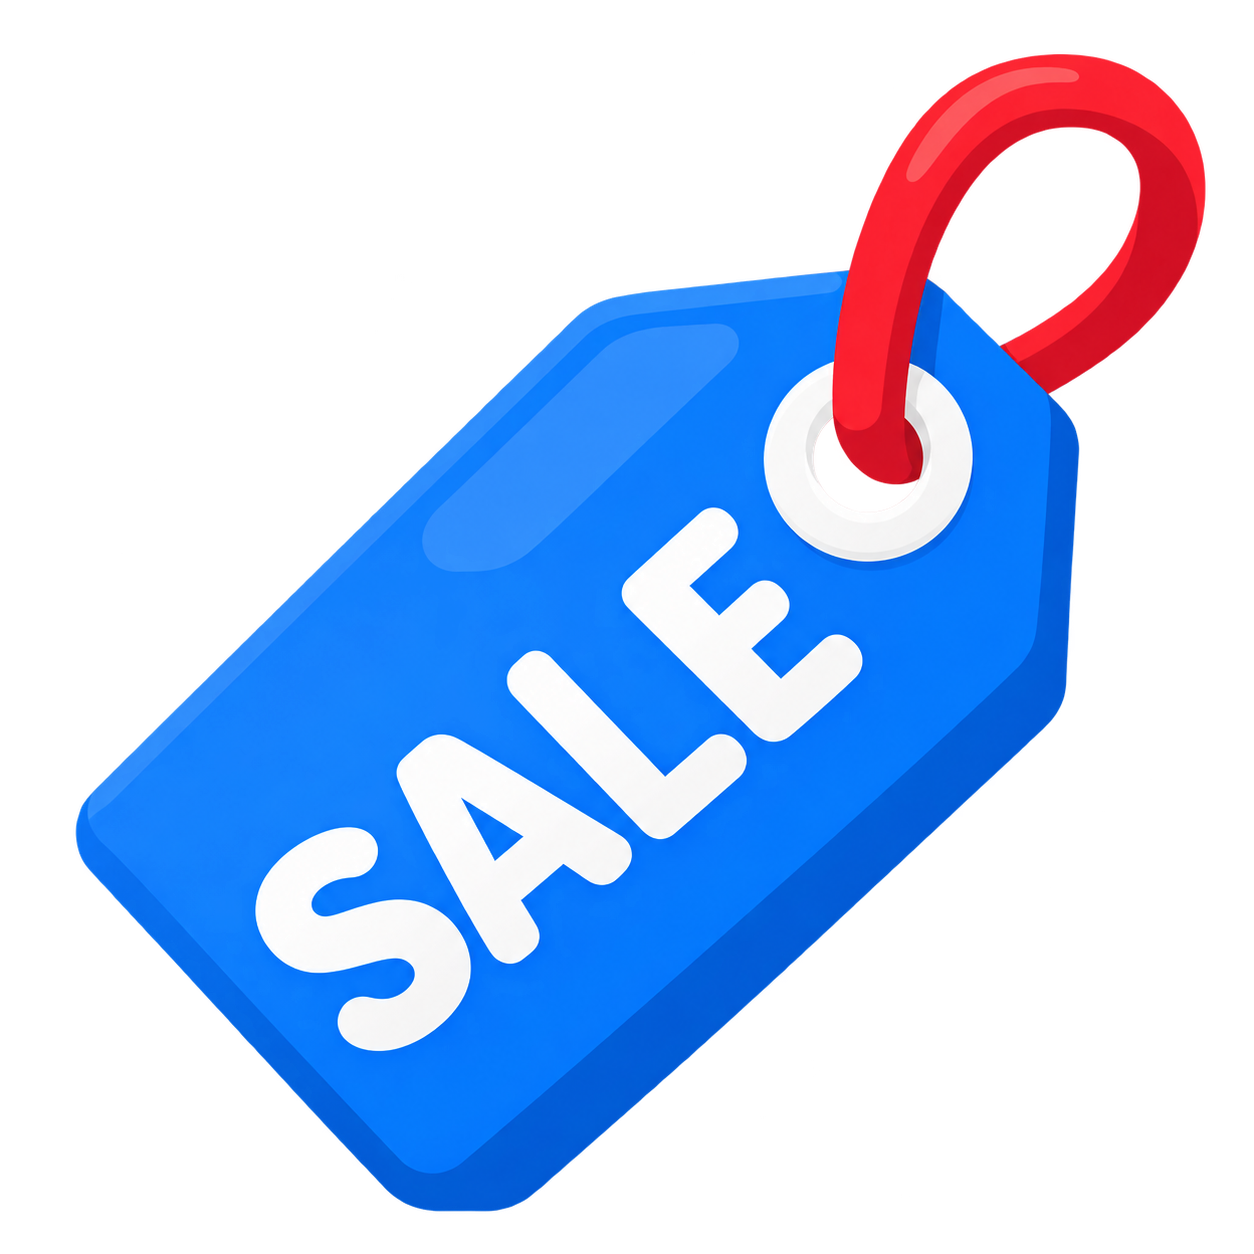
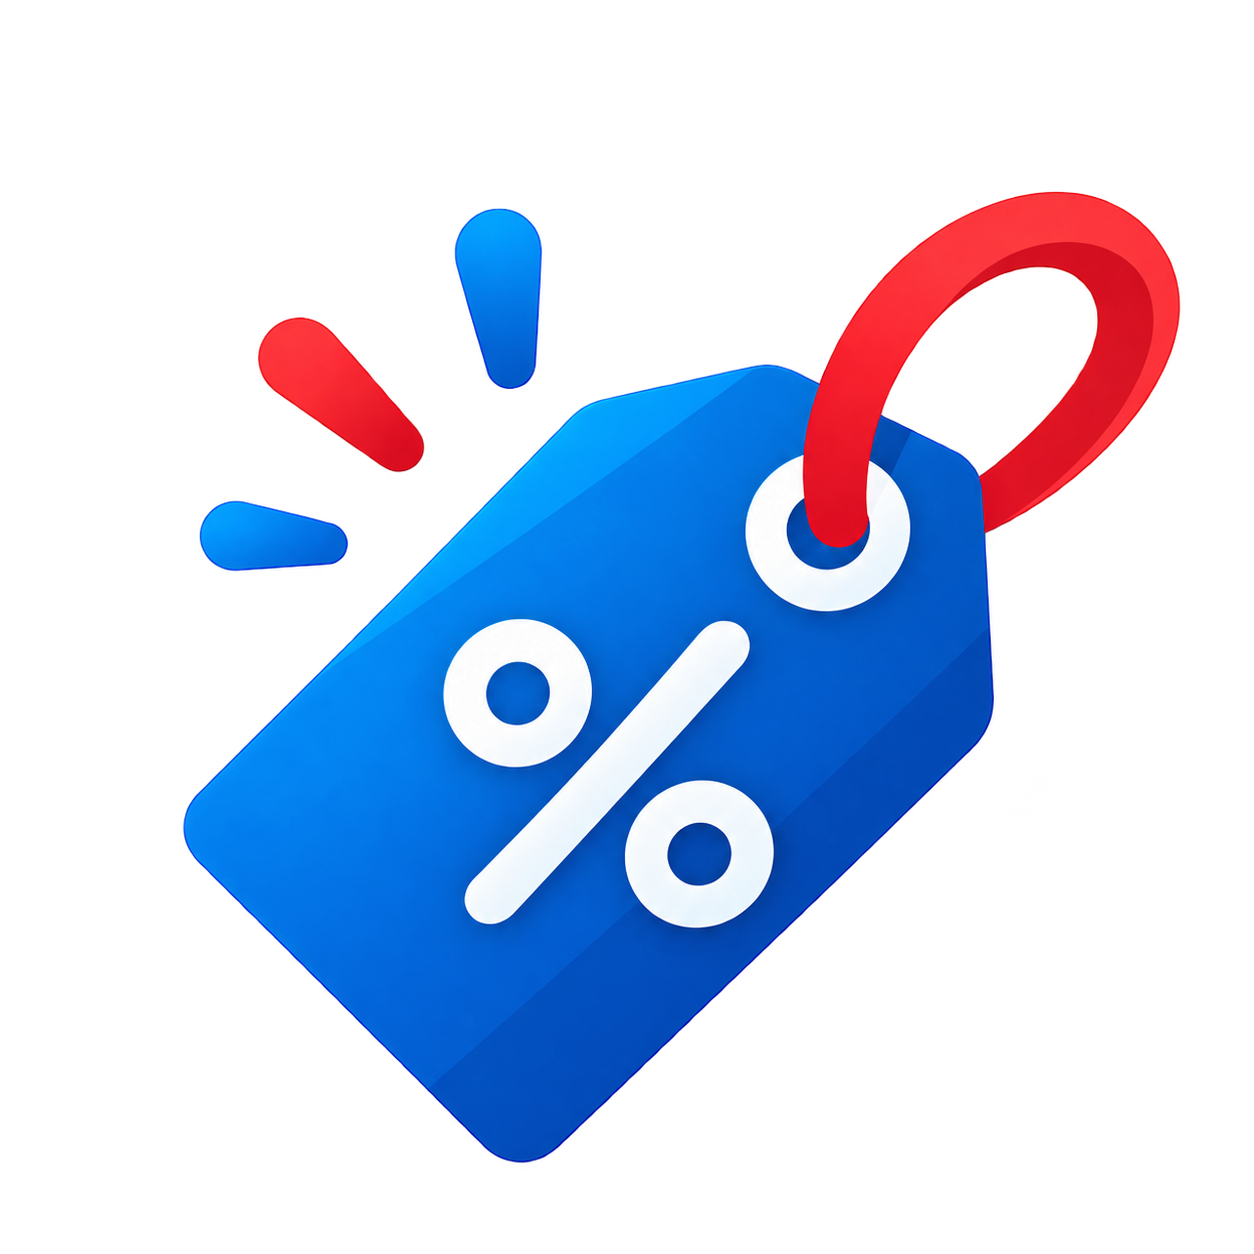
feat: implement dynamic home hero themes and enhance storefront layout

diff --git a/App.tsx b/App.tsx
@@ -138,6 +138,58 @@ const homeMenus = [
   { label: 'Industry', hero: require('./assets/figma/category-industry.png') },
 ] as const;
 
+type HomeHeroTheme = {
+  colors: readonly [string, string, string, string, string];
+  locations: readonly [number, number, number, number, number];
+};
+
+const HOME_HERO_THEMES: Record<string, HomeHeroTheme> = {
+  Audio: { colors: ['#071D3D', '#0C3159', '#1E5A86', '#72A8C8', '#DCEAF3'], locations: [0, 0.24, 0.49, 0.75, 1] },
+  Capture: { colors: ['#301712', '#592A20', '#8C503A', '#C58A68', '#F0D9C8'], locations: [0, 0.24, 0.49, 0.75, 1] },
+  Computers: { colors: ['#11182B', '#1E2F52', '#345A82', '#7796B2', '#D9E5EE'], locations: [0, 0.24, 0.49, 0.75, 1] },
+  'Smart Tech': { colors: ['#151537', '#27235D', '#435A91', '#7E9FC1', '#DCE8F1'], locations: [0, 0.24, 0.49, 0.75, 1] },
+  Home: { colors: ['#183227', '#2D5143', '#5D806D', '#9DB8A4', '#E3ECE4'], locations: [0, 0.24, 0.49, 0.75, 1] },
+  Lifestyle: { colors: ['#32172F', '#5A2D59', '#875B82', '#B793AF', '#EADDE8'], locations: [0, 0.24, 0.49, 0.75, 1] },
+  Industry: { colors: ['#282016', '#51412B', '#7A6746', '#AD9871', '#E8E0D0'], locations: [0, 0.24, 0.49, 0.75, 1] },
+};
+
+function getHomeHeroTheme(category: string): HomeHeroTheme {
+  if (HOME_HERO_THEMES[category]) return HOME_HERO_THEMES[category]!;
+  const normalized = category.toLowerCase();
+  if (normalized.includes('camera') || normalized.includes('capture')) return HOME_HERO_THEMES.Capture!;
+  if (normalized.includes('computer')) return HOME_HERO_THEMES.Computers!;
+  if (normalized.includes('smart') || normalized.includes('watch')) return HOME_HERO_THEMES['Smart Tech']!;
+  if (normalized.includes('home')) return HOME_HERO_THEMES.Home!;
+  if (normalized.includes('life')) return HOME_HERO_THEMES.Lifestyle!;
+  if (normalized.includes('industr')) return HOME_HERO_THEMES.Industry!;
+  return HOME_HERO_THEMES.Audio!;
+}
+
+function HomeHeroBackground({ category }: { category: string }) {
+  const incomingTheme = getHomeHeroTheme(category);
+  const [outgoingTheme, setOutgoingTheme] = useState(incomingTheme);
+  const [activeTheme, setActiveTheme] = useState(incomingTheme);
+  const activeThemeRef = useRef(incomingTheme);
+  const transition = useRef(new Animated.Value(1)).current;
+
+  useEffect(() => {
+    const nextTheme = getHomeHeroTheme(category);
+    setOutgoingTheme(activeThemeRef.current);
+    setActiveTheme(nextTheme);
+    activeThemeRef.current = nextTheme;
+    transition.stopAnimation();
+    transition.setValue(0);
+    const animation = Animated.timing(transition, { toValue: 1, duration: 480, easing: Easing.inOut(Easing.cubic), useNativeDriver: true });
+    animation.start();
+    return () => animation.stop();
+  }, [category, transition]);
+
+  return <View pointerEvents="none" style={styles.homeChromeGradient}>
+    <LinearGradient colors={outgoingTheme.colors} locations={outgoingTheme.locations} start={{ x: 0.5, y: 0 }} end={{ x: 0.5, y: 1 }} style={StyleSheet.absoluteFill} />
+    <Animated.View style={[StyleSheet.absoluteFill, { opacity: transition }]}><LinearGradient colors={activeTheme.colors} locations={activeTheme.locations} start={{ x: 0.5, y: 0 }} end={{ x: 0.5, y: 1 }} style={StyleSheet.absoluteFill} /></Animated.View>
+  </View>;
+}
+
 const excludedShopifyMenuItems = new Set(['Express Hub', 'Blumaple Business', 'Track Your Order']);
 
 function money(amount: string, currencyCode: string) {
@@ -616,11 +668,14 @@ function Storefront() {
   const cardWidth = Math.max(156, (contentWidth - 46) / 2);
   const wishlistCardWidth = (contentWidth - 36) / 2;
   const trendingCardWidth = Math.max(118, (contentWidth - 54) / 2.65);
-  const carouselCardWidth = Math.round(contentWidth - 32);
+  const carouselCardWidth = Math.round(contentWidth - 72);
   const carouselStep = carouselCardWidth + 12;
   const [activeBanner, setActiveBanner] = useState(0);
   const [carouselCycle, setCarouselCycle] = useState(0);
   const [activeCategory, setActiveCategory] = useState('Audio');
+  const homeMenuRef = useRef<ScrollView>(null);
+  const homeMenuViewportWidthRef = useRef(0);
+  const homeMenuContentWidthRef = useRef(0);
   const [homeProductListing, setHomeProductListing] = useState<'trending' | 'bestSelling'>('trending');
   const [discoverySearchReturnScreen, setDiscoverySearchReturnScreen] = useState<ReturnScreen>('home');
   const [discoverySearchInitialQuery, setDiscoverySearchInitialQuery] = useState('');
@@ -770,7 +825,7 @@ function Storefront() {
   const browseViewportHeightRef = useRef(0);
   const browseChromeProgress = useRef(new Animated.Value(0)).current;
   const browseFooterProgress = useRef(new Animated.Value(0)).current;
-  const collapseBrowseChrome = screen === 'categories' || screen === 'wishlist' || screen === 'offers' || screen === 'orders' || screen === 'profile';
+  const collapseBrowseChrome = screen === 'wishlist' || screen === 'orders' || screen === 'profile';
   const storefrontHeaderVisible = collapseBrowseChrome
     && screen !== 'profile'
     && !openingAnimationVisible
@@ -946,6 +1001,7 @@ function Storefront() {
     : [...homeMenus],
   [filteredShopifyMenuItems]);
   const activeHomeMenu = displayHomeMenus.find(menu => menu.label === activeCategory) ?? displayHomeMenus[0]!;
+  const activeHomeHeroTheme = getHomeHeroTheme(activeHomeMenu.label);
   const activeShopifyMenu = filteredShopifyMenuItems.find(item => item.title.trim() === activeHomeMenu.label);
   const categoryIndex = Math.max(0, displayHomeMenus.findIndex(menu => menu.label === activeHomeMenu.label));
   const shopCategories = useMemo(
@@ -1393,12 +1449,19 @@ function Storefront() {
 
   const openFooterPage = (target: 'home' | 'categories' | 'orders' | 'wishlist' | 'offers') => {
     if (screen === target || footerPageTransitioning) return;
-    setActiveFooterTab(target);
+    browseChromeProgress.stopAnimation();
+    browseFooterProgress.stopAnimation();
+    browseChromeCollapsedRef.current = false;
+    browseFooterCollapsedRef.current = false;
+    lastBrowseScrollYRef.current = 0;
+    browseContentHeightRef.current = 0;
+    browseViewportHeightRef.current = 0;
+    browseChromeProgress.setValue(0);
+    browseFooterProgress.setValue(0);
     setFooterPageTransitioning(true);
-    requestAnimationFrame(() => {
-      setScreen(target);
-      requestAnimationFrame(() => setFooterPageTransitioning(false));
-    });
+    setActiveFooterTab(target);
+    setScreen(target);
+    requestAnimationFrame(() => setFooterPageTransitioning(false));
   };
 
   const openDiscoverySearch = (origin: ReturnScreen = 'home', initialQuery = '') => {
@@ -1596,10 +1659,10 @@ function Storefront() {
   </SafeAreaView>;
 
   return (
-    <SafeAreaView style={[styles.safeArea, (screen === 'home' || screen === 'categories' || screen === 'wishlist' || screen === 'offers' || screen === 'orders') && styles.homeSafeArea]}>
-      <StatusBar barStyle="light-content" backgroundColor="#0A254A" translucent={false} />
+    <SafeAreaView style={[styles.safeArea, (screen === 'home' || screen === 'categories' || screen === 'wishlist' || screen === 'offers' || screen === 'orders') && styles.homeSafeArea, screen === 'home' && { backgroundColor: activeHomeHeroTheme.colors[0] }]}>
+      <StatusBar barStyle="light-content" backgroundColor={screen === 'home' ? activeHomeHeroTheme.colors[0] : '#0A254A'} translucent={false} />
       <Animated.View style={[styles.app, activeFooterTab === 'home' && styles.homeEntranceBackground, { width: contentWidth, opacity: Animated.multiply(storefrontEntranceProgress, backRevealOpacity), transform: [{ translateX: backRevealTranslateX }] }]}>
-        {screen === 'home' ? <LinearGradient pointerEvents="none" colors={['#0A254A', '#17395F', '#41688D', '#91ABC4', '#F4F7FB']} locations={[0, 0.28, 0.52, 0.78, 1]} start={{ x: 0.5, y: 0 }} end={{ x: 0.5, y: 1 }} style={styles.homeChromeGradient} /> : null}
+        {screen === 'home' ? <HomeHeroBackground category={activeHomeMenu.label} /> : null}
         {collapseBrowseChrome ? <Animated.View style={[styles.homeCollapsibleHeader, { height: homeHeaderHeight, opacity: homeHeaderOpacity }]}>
           <View style={styles.deliveryHeader}>
           <View style={styles.deliveryBrandBlock}>
@@ -1620,17 +1683,23 @@ function Storefront() {
             <Image source={require('./images/blumaple-header-white.png')} style={styles.deliveryLogo} resizeMode="contain" />
             <Pressable onPress={openPincodeModal} style={styles.addAddressButton}><Ionicons name="location-outline" size={21} color={palette.blue} /><Text style={styles.addAddressText}>{deliveryPincode ? `Deliver to ${deliveryPincode}` : 'Deliver to'}</Text></Pressable>
           </View>
-          <View style={styles.deliveryActions}><Pressable accessibilityRole="button" accessibilityLabel={`Open cart${cartCount ? `, ${cartCount} items` : ''}`} hitSlop={10} onPress={openCart} style={styles.headerCartButton}><Ionicons name="cart-outline" size={26} color={palette.white} />{cartCount > 0 ? <View style={styles.headerCartBadge}><Text style={styles.headerCartBadgeText}>{cartCount > 99 ? '99+' : cartCount}</Text></View> : null}</Pressable><Pressable accessibilityRole="button" accessibilityLabel="Open account" hitSlop={8} onPress={() => customerAuth.isLoggedIn ? openProfile() : setInitialLoginSkipped(false)} style={styles.headerActionButton}><Ionicons name={customerAuth.isLoggedIn ? 'person-circle' : 'person-circle-outline'} size={27} color={palette.white} /></Pressable></View>
+          <View style={styles.deliveryActions}>{screen === 'categories' || screen === 'offers' ? <Pressable accessibilityRole="button" accessibilityLabel="Open search" hitSlop={8} onPress={() => openDiscoverySearch(screen)} style={styles.headerActionButton}><Ionicons name="search-outline" size={25} color={palette.white} /></Pressable> : null}<Pressable accessibilityRole="button" accessibilityLabel={`Open cart${cartCount ? `, ${cartCount} items` : ''}`} hitSlop={10} onPress={openCart} style={styles.headerCartButton}><Ionicons name="cart-outline" size={26} color={palette.white} />{cartCount > 0 ? <View style={styles.headerCartBadge}><Text style={styles.headerCartBadgeText}>{cartCount > 99 ? '99+' : cartCount}</Text></View> : null}</Pressable><Pressable accessibilityRole="button" accessibilityLabel="Open account" hitSlop={8} onPress={() => customerAuth.isLoggedIn ? openProfile() : setInitialLoginSkipped(false)} style={styles.headerActionButton}><Ionicons name={customerAuth.isLoggedIn ? 'person-circle' : 'person-circle-outline'} size={27} color={palette.white} /></Pressable></View>
         </View>}
 
         {screen === 'home' ? <View style={styles.homeSearchZone}><Pressable accessibilityRole="search" accessibilityLabel="Search products" onPress={() => openDiscoverySearch('home', SEARCH_PLACEHOLDERS[searchPlaceholderIndex])} style={styles.homeSearchButton}><Ionicons name="search-outline" size={23} color={palette.ink} /><View style={styles.homeSearchTextClip}><Animated.View style={[styles.homeSearchTextStack, { transform: [{ translateY: searchPlaceholderY.interpolate({ inputRange: [0, 1], outputRange: [0, -24] }) }] }]}><Text numberOfLines={1} style={styles.homeSearchButtonText}>Search &quot;{SEARCH_PLACEHOLDERS[searchPlaceholderIndex]}&quot;</Text><Text numberOfLines={1} style={styles.homeSearchButtonText}>Search &quot;{SEARCH_PLACEHOLDERS[(searchPlaceholderIndex + 1) % SEARCH_PLACEHOLDERS.length]}&quot;</Text></Animated.View></View><View style={styles.homeSearchDivider} /><Ionicons name="mic-outline" size={21} color={palette.ink} /></Pressable></View> : null}
 
-        {screen === 'home' ? <View style={styles.homePinnedMenu}><ScrollView horizontal showsHorizontalScrollIndicator={false} directionalLockEnabled nestedScrollEnabled decelerationRate="fast" snapToInterval={82} snapToAlignment="start" scrollEventThrottle={16} contentContainerStyle={styles.blinkTabs}>
+        {screen === 'home' ? <View style={styles.homePinnedMenu} onLayout={event => { homeMenuViewportWidthRef.current = event.nativeEvent.layout.width; }}><ScrollView ref={homeMenuRef} horizontal showsHorizontalScrollIndicator={false} directionalLockEnabled nestedScrollEnabled decelerationRate="fast" snapToInterval={82} snapToAlignment="start" disableIntervalMomentum scrollEventThrottle={16} onContentSizeChange={width => { homeMenuContentWidthRef.current = width; }} contentContainerStyle={styles.blinkTabs}>
           {displayHomeMenus.map((menu, index) => {
             const active = activeCategory === menu.label;
             const icon = menu.label === 'Audio' ? (active ? 'headset' : 'headset-outline') : menu.label === 'Capture' ? (active ? 'camera' : 'camera-outline') : menu.label === 'Computers' ? (active ? 'laptop' : 'laptop-outline') : menu.label === 'Smart Tech' ? (active ? 'watch' : 'watch-outline') : menu.label === 'Home' ? (active ? 'home' : 'home-outline') : menu.label === 'Lifestyle' ? (active ? 'sparkles' : 'sparkles-outline') : (active ? 'build' : 'build-outline');
-            return <Pressable key={menu.label} onPress={() => setActiveCategory(menu.label)} style={[styles.blinkTab, index < displayHomeMenus.length - 1 && styles.blinkTabPartition, active && styles.blinkTabActive]}>
-              <View style={styles.blinkTabIconWrap}><Ionicons name={icon} size={25} color={active ? '#3F72E5' : '#FFFFFF'} />{active ? <View style={styles.blinkTabIconAccent} /> : null}</View>
+            return <Pressable key={menu.label} onPress={() => {
+              setActiveCategory(menu.label);
+              const viewportWidth = homeMenuViewportWidthRef.current;
+              const maximumOffset = Math.max(0, homeMenuContentWidthRef.current - viewportWidth);
+              const centeredOffset = index * 82 + 40 - viewportWidth / 2;
+              homeMenuRef.current?.scrollTo({ x: Math.max(0, Math.min(centeredOffset, maximumOffset)), animated: true });
+            }} style={[styles.blinkTab, index < displayHomeMenus.length - 1 && styles.blinkTabPartition, active && styles.blinkTabActive]}>
+              <View style={[styles.blinkTabIconWrap, active && styles.blinkTabIconWrapActive]}><Ionicons name={icon} size={active ? 22 : 25} color="#FFFFFF" />{active ? <View style={styles.blinkTabIconAccent} /> : null}</View>
               <Text style={[styles.blinkTabText, active && styles.blinkTabTextActive]}>{menu.label}</Text>
               {active ? <View style={styles.blinkTabIndicator} /> : null}
             </Pressable>;
@@ -1639,7 +1708,7 @@ function Storefront() {
 
         <Animated.ScrollView
           key={screen}
-          style={{ backgroundColor: palette.white }}
+          style={{ backgroundColor: screen === 'home' ? 'transparent' : palette.white }}
           showsVerticalScrollIndicator={false}
           bounces
           alwaysBounceVertical
@@ -1652,6 +1721,7 @@ function Storefront() {
             if (browseChromeCollapsedRef.current && height <= browseViewportHeightRef.current + 130) setBrowseChromeVisibility(false);
           }}
           onScroll={collapseBrowseChrome ? event => {
+            if (footerPageTransitioning) return;
             const offsetY = Math.max(0, event.nativeEvent.contentOffset.y);
             const previousOffsetY = lastBrowseScrollYRef.current;
             const movement = offsetY - previousOffsetY;
@@ -1666,7 +1736,7 @@ function Storefront() {
         >
           {screen === 'home' ? <>
           <Animated.View style={{ opacity: homeCarouselEntrance, transform: [{ translateY: homeCarouselTranslateY }] }}>
-          <View style={[styles.carouselHeaderZone, styles.homeContentSurface]}>
+          <View style={styles.carouselHeaderZone}>
           <View style={styles.carouselFade}>
           {carouselSlides.length ? <><ScrollView
             horizontal
@@ -1674,7 +1744,9 @@ function Storefront() {
             ref={carouselRef}
             contentOffset={{ x: carouselStep * (carouselSlideCount + (carouselSlideCount > 1 ? 1 : 0)), y: 0 }}
             snapToInterval={carouselStep}
-            decelerationRate="normal"
+            decelerationRate="fast"
+            snapToAlignment="start"
+            disableIntervalMomentum
             overScrollMode="never"
             onScrollBeginDrag={() => {
               carouselProgress.stopAnimation();
@@ -1704,7 +1776,7 @@ function Storefront() {
                 openProduct(slide.product);
               }
             }}>
-              <View style={styles.promoImageFrame}><Image source={slide.image} style={styles.promoImage} resizeMode="contain" /></View>
+              <View style={styles.promoImageFrame}><Image source={slide.image} style={styles.promoImage} resizeMode="cover" /></View>
               <View style={styles.promoCopy}><Text numberOfLines={2} style={styles.promoTitle}>{slide.title}</Text>{slide.subtitle ? <Text style={styles.promoSubtitle}>{slide.subtitle}</Text> : null}</View>
             </Pressable>)}
           </ScrollView>
@@ -1909,7 +1981,7 @@ const styles = StyleSheet.create({
   homeHeroSurface: { position: 'relative', overflow: 'hidden', backgroundColor: '#0A254A' },
   homeContentSurface: { position: 'relative', backgroundColor: '#FFFFFF' },
   app: { flex: 1, alignSelf: 'center', backgroundColor: palette.white },
-  homeChromeGradient: { position: 'absolute', top: 0, left: 0, right: 0, height: 221, zIndex: 0 },
+  homeChromeGradient: { position: 'absolute', top: 0, left: 0, right: 0, height: 460, zIndex: 0 },
   homeChromeTransparent: { backgroundColor: 'transparent' },
   backRevealPage: { flex: 1 },
   homeEntranceBackground: { backgroundColor: '#0A254A' },
@@ -1972,8 +2044,8 @@ const styles = StyleSheet.create({
   badgeText: { color: palette.white, fontFamily: 'Inter_400Regular', fontSize: 10, fontWeight: '700' },
   content: { paddingHorizontal: 0, paddingBottom: 72 },
   browseContent: { paddingBottom: 78, backgroundColor: palette.white },
-  carouselHeaderZone: { marginHorizontal: 0, paddingHorizontal: 0, paddingBottom: 8, backgroundColor: homeChrome },
-  carouselFade: { minHeight: 229, marginTop: 12, marginHorizontal: 0, paddingHorizontal: 0, backgroundColor: 'transparent' },
+  carouselHeaderZone: { marginHorizontal: 0, paddingHorizontal: 0, paddingBottom: 8, backgroundColor: 'transparent' },
+  carouselFade: { minHeight: 229, marginTop: 8, marginHorizontal: 0, paddingHorizontal: 0, backgroundColor: 'transparent' },
   carouselLoading: { height: 218, marginHorizontal: 16, borderRadius: 18, alignItems: 'center', justifyContent: 'center', backgroundColor: '#12345B' },
   carouselLoadingText: { color: palette.muted, fontFamily: 'Inter_400Regular', fontSize: 12, fontWeight: '600' },
   cartonLoader: { width: 66, height: 58, alignItems: 'center', justifyContent: 'flex-end' },
@@ -2035,7 +2107,7 @@ const styles = StyleSheet.create({
   searchLoadMore: { width: 150, height: 44, marginTop: 20, alignSelf: 'center', alignItems: 'center', justifyContent: 'center', borderRadius: 9, backgroundColor: palette.blue },
   searchLoadMoreDisabled: { opacity: 0.6 },
   searchLoadMoreText: { color: '#FFFFFF', fontFamily: 'Inter_400Regular', fontSize: 13, fontWeight: '900' },
-  homePinnedMenu: { position: 'relative', flexShrink: 0, borderBottomWidth: 1, borderBottomColor: 'rgba(92,108,126,0.24)', backgroundColor: 'transparent', zIndex: 15 },
+  homePinnedMenu: { position: 'relative', flexShrink: 0, borderBottomWidth: 0, backgroundColor: 'transparent', zIndex: 15 },
   homeSearchZone: { position: 'relative', paddingHorizontal: 15, paddingTop: 3, paddingBottom: 7, backgroundColor: 'transparent', zIndex: 15 },
   homeSearchButton: { height: 50, paddingHorizontal: 14, borderRadius: 14, flexDirection: 'row', alignItems: 'center', gap: 10, backgroundColor: '#FFFFFF', shadowColor: '#000000', shadowOffset: { width: 0, height: 2 }, shadowOpacity: 0.09, shadowRadius: 6, elevation: 3 },
   homeSearchTextClip: { flex: 1, height: 24, overflow: 'hidden' },
@@ -2044,18 +2116,19 @@ const styles = StyleSheet.create({
   homeSearchDivider: { width: 1, height: 27, backgroundColor: '#E3E6EA' },
   blinkTabs: { gap: 2, paddingTop: 11, paddingHorizontal: 0, alignItems: 'center', backgroundColor: 'transparent' },
   blinkTab: { position: 'relative', width: 80, height: 65, paddingHorizontal: 3, paddingTop: 7, paddingBottom: 10, gap: 4, alignItems: 'center', justifyContent: 'center', backgroundColor: 'transparent' },
-  blinkTabIconWrap: { position: 'relative', width: 28, height: 27, alignItems: 'center', justifyContent: 'center' },
-  blinkTabIconAccent: { position: 'absolute', top: 0, right: 0, width: 7, height: 7, borderRadius: 4, borderWidth: 1, borderColor: '#0A254A', backgroundColor: '#D83434' },
+  blinkTabIconWrap: { position: 'relative', width: 32, height: 30, borderRadius: 15, alignItems: 'center', justifyContent: 'center' },
+  blinkTabIconWrapActive: { backgroundColor: 'rgba(10,37,74,0.9)', borderWidth: 1, borderColor: 'rgba(255,255,255,0.34)' },
+  blinkTabIconAccent: { position: 'absolute', top: -1, right: -1, width: 8, height: 8, borderRadius: 4, borderWidth: 1, borderColor: '#FFFFFF', backgroundColor: '#E53935' },
   blinkTabGradient: { ...StyleSheet.absoluteFill, borderRadius: 13 },
   blinkTabPartition: { borderRightWidth: 0 },
   blinkTabActive: { backgroundColor: 'transparent' },
   blinkTabIndicator: { position: 'absolute', left: 12, right: 12, bottom: -1, height: 4, borderTopLeftRadius: 4, borderTopRightRadius: 4, backgroundColor: '#D83434' },
-  blinkTabText: { width: '100%', color: '#4D5968', fontFamily: 'Inter_400Regular', fontSize: 10, lineHeight: 12, fontWeight: '600', textAlign: 'center' },
-  blinkTabTextActive: { color: palette.blue, fontWeight: '900' },
+  blinkTabText: { width: '100%', color: '#FFFFFF', fontFamily: 'Inter_400Regular', fontSize: 10, lineHeight: 12, fontWeight: '700', textAlign: 'center', textShadowColor: 'rgba(0,0,0,0.5)', textShadowOffset: { width: 0, height: 1 }, textShadowRadius: 2 },
+  blinkTabTextActive: { color: '#FFFFFF', fontWeight: '900' },
   promoCards: { gap: 12, paddingVertical: 5 },
-  promoCard: { height: 196, borderWidth: 1, borderColor: 'rgba(255,255,255,0.28)', borderRadius: 20, overflow: 'hidden', backgroundColor: '#FFFFFF', shadowColor: '#000000', shadowOffset: { width: 0, height: 4 }, shadowOpacity: 0.18, shadowRadius: 10, elevation: 5 },
-  promoImageFrame: { ...StyleSheet.absoluteFill, borderRadius: 19, overflow: 'hidden', backgroundColor: '#FFFFFF' },
-  promoImage: { width: '100%', height: '100%', transform: [{ scale: 1.08 }] },
+  promoCard: { height: 196, borderRadius: 18, overflow: 'hidden', backgroundColor: 'transparent' },
+  promoImageFrame: { ...StyleSheet.absoluteFill, borderRadius: 18, overflow: 'hidden', backgroundColor: 'transparent' },
+  promoImage: { width: '100%', height: '100%' },
   promoCopy: { position: 'absolute', left: 18, right: 14, bottom: 17 },
   promoTitle: { color: '#FFFFFF', fontFamily: 'Inter_400Regular', fontSize: 19, lineHeight: 23, fontWeight: '900', textShadowColor: 'rgba(0,0,0,0.7)', textShadowOffset: { width: 0, height: 2 }, textShadowRadius: 4 },
   promoSubtitle: { color: '#FFFFFF', fontFamily: 'Inter_400Regular', fontSize: 11, lineHeight: 14, marginTop: 4, width: 140, textShadowColor: 'rgba(0,0,0,0.58)', textShadowOffset: { width: 0, height: 1 }, textShadowRadius: 2 },
